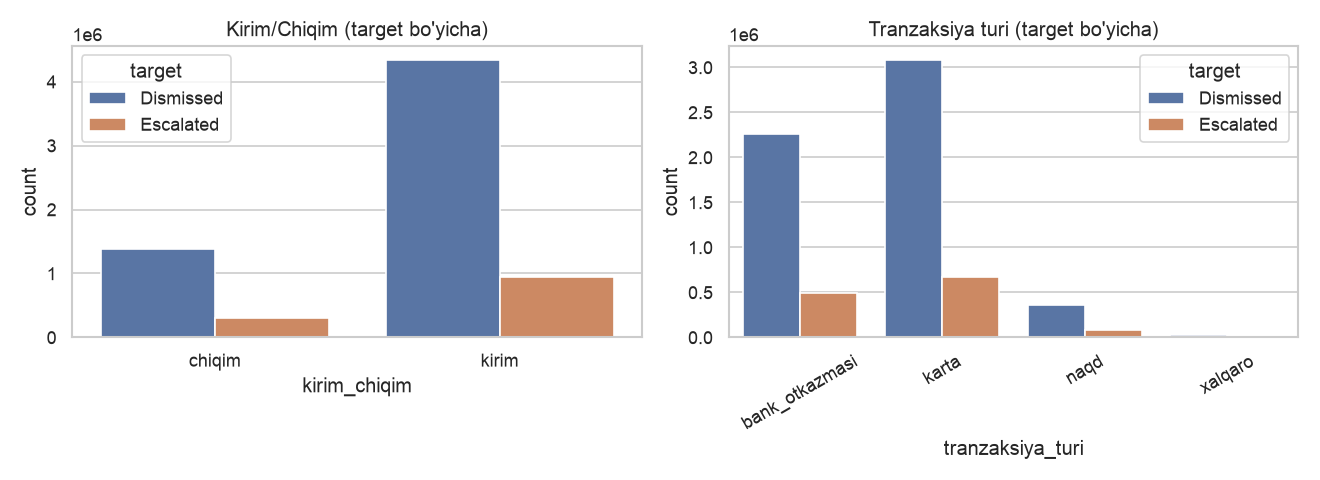
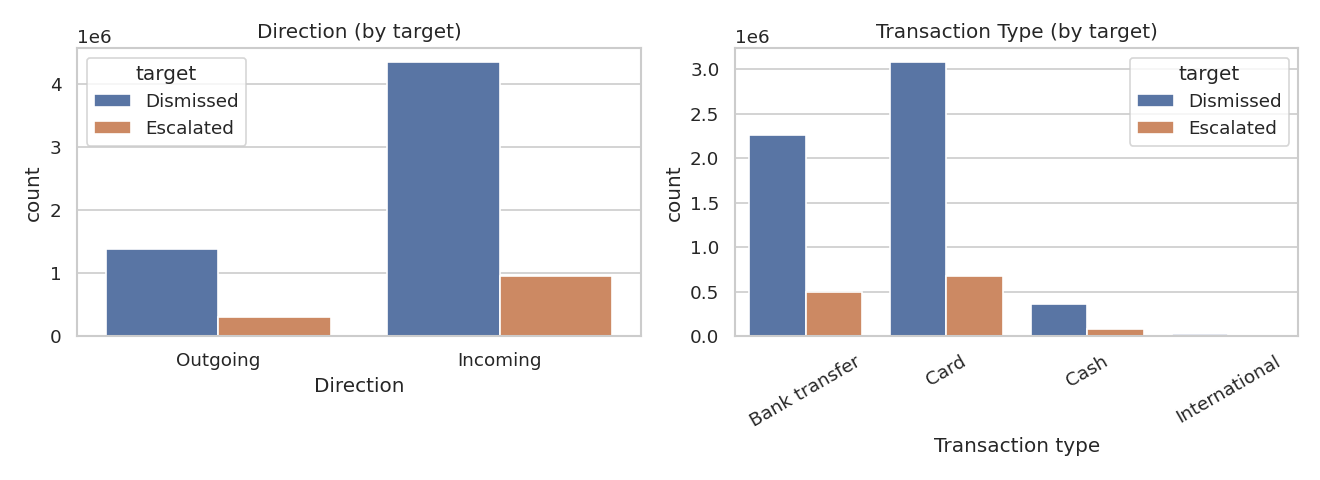
Translate EDA website to English

diff --git a/app.py b/app.py
@@ -3,12 +3,12 @@ app.py
 ------
 Team Galaxy — WIUT Hackathon 2026, AML Alert Prioritization — EDA website.
 
-Bu ilova faqat `eda_assets/` papkasidagi OLDINDAN HISOBLANGAN grafik va
-statistikalarni ko'rsatadi (xom train/test CSV yoki parquet fayllarni
-o'qimaydi va ularga bog'liq emas) — shuning uchun uni GitHub'ga xavfsiz
-push qilish va Streamlit Community Cloud'ga deploy qilish mumkin.
+This app only displays PRE-COMPUTED assets from `eda_assets/` (charts and
+summary statistics) — it does not read the raw train/test CSV or parquet
+files and has no dependency on them. This makes it safe to push to a
+public GitHub repo and deploy on Streamlit Community Cloud.
 
-Local sinash:
+Local run:
     streamlit run app.py
 """
 
@@ -21,17 +21,17 @@ ASSETS_DIR = Path(__file__).parent / "eda_assets"
 
 st.set_page_config(page_title="Team Galaxy — AML Alert Prioritization EDA", layout="wide")
 
-# ---------------------------------------------------------------- Sarlavha
+# ---------------------------------------------------------------- Header
 st.title("🔍 AML Alert Prioritization — Exploratory Data Analysis")
 st.caption("Team Galaxy · 9C953F22 · WIUT Hackathon 2026 · FinTech / AI in Finance track")
 
 st.markdown(
     """
-**Yondashuvimiz qisqacha:** biz relational (bir alertga ko'plab tranzaksiya
-to'g'ri keladigan) ma'lumotlar bazasini signal_id darajasidagi feature
-jadvaliga aylantirdik, so'ngra LightGBM, CatBoost va XGBoost modellarini
-5-fold cross-validation bilan o'qitib, ularning bashoratlarini blend
-qildik. Quyida ushbu qarorlarga olib kelgan EDA jarayonimiz keltirilgan.
+**Our approach in brief:** we transformed the relational dataset (one alert
+linked to many historical transactions) into a signal-level feature table,
+then trained LightGBM, CatBoost and XGBoost models with 5-fold
+cross-validation and blended their predictions. Below is the EDA process
+that shaped these modeling decisions.
 """
 )
 
@@ -42,33 +42,33 @@ if summary_path.exists():
     with open(summary_path, encoding="utf-8") as f:
         summary = json.load(f)
 
-st.header("📊 Dataset tuzilishi")
+st.header("📊 Dataset Structure")
 col1, col2, col3, col4 = st.columns(4)
-col1.metric("Jami signal (train)", f"{summary.get('n_signals', '—'):,}")
-col2.metric("Jami tranzaksiya (train)", f"{summary.get('n_transactions', '—'):,}")
+col1.metric("Total signals (train)", f"{summary.get('n_signals', '—'):,}")
+col2.metric("Total transactions (train)", f"{summary.get('n_transactions', '—'):,}")
 col3.metric("Escalation rate", f"{summary.get('escalation_rate', 0):.1%}")
-col4.metric("O'rtacha tx/signal", f"{summary.get('avg_tx_per_signal', 0):.0f}")
+col4.metric("Avg. transactions/signal", f"{summary.get('avg_tx_per_signal', 0):.0f}")
 
 st.markdown(
     f"""
-**Ma'lumotlar sxemasi:**
-- `signals`: `signal_id`, `signal_sanasi`, `eskalatsiya` (target: 0=dismissed, 1=escalated)
-- `transactions` *(relational — bir signalga ko'plab qator)*: `signal_id`,
-  `tranzaksiya_vaqti`, `kirim_chiqim` (kirim/chiqim), `tranzaksiya_turi`
-  (karta/bank_otkazmasi/naqd/xalqaro), `miqdor_indeksi` (standartlashtirilgan)
+**Data schema** *(original column names shown in parentheses)*:
+- `signals`: `signal_id`, signal date (`signal_sanasi`), target (`eskalatsiya`: 0 = dismissed, 1 = escalated)
+- `transactions` *(relational — many rows per signal)*: `signal_id`,
+  transaction timestamp (`tranzaksiya_vaqti`), direction (`kirim_chiqim`: incoming/outgoing),
+  transaction type (`tranzaksiya_turi`: card / bank transfer / cash / international),
+  standardized amount (`miqdor_indeksi`)
 
-Sana oralig'i: **{summary.get('date_min', '—')} — {summary.get('date_max', '—')}**
+Date range: **{summary.get('date_min', '—')} — {summary.get('date_max', '—')}**
 
-*Eslatma: barqarorlik va maxfiylik (NDA) sababli, bu sahifada xom
-tranzaksiya ma'lumotlari emas, faqat jamlangan (agregatlangan)
-statistikalar va grafiklar ko'rsatiladi.*
+*Note: for data-privacy and NDA reasons, this page shows only aggregated
+statistics and charts — never raw transaction records.*
 """
 )
 
 st.divider()
 
 # ---------------------------------------------------------------- Target
-st.header("🎯 Target taqsimoti")
+st.header("🎯 Target Distribution")
 c1, c2 = st.columns([1, 1])
 with c1:
     img = ASSETS_DIR / "target_distribution.png"
@@ -77,44 +77,44 @@ with c1:
 with c2:
     st.markdown(
         f"""
-**Kuzatuv:** target sezilarli darajada **imbalanced** —
-escalation rate atigi **{summary.get('escalation_rate', 0):.1%}**.
+**Observation:** the target is notably **imbalanced** — the escalation
+rate is only **{summary.get('escalation_rate', 0):.1%}**.
 
-Bu bizning modellashtirish qarorlarimizga bevosita ta'sir qildi:
-- `scale_pos_weight` orqali class imbalance'ni kompensatsiya qildik
-- ROC-AUC metrikasini tanladik (imbalanced datada accuracy chalg'ituvchi
-  bo'lishi mumkin)
-- StratifiedKFold ishlatdik — har fold'da target nisbati saqlanishi uchun
+This directly shaped our modeling decisions:
+- We used `scale_pos_weight` to compensate for the class imbalance
+- We chose ROC-AUC as the evaluation metric (accuracy would be misleading
+  on imbalanced data)
+- We used StratifiedKFold so each fold preserves the target ratio
 """
     )
 
 st.divider()
 
 # ---------------------------------------------------------- Direction/Type
-st.header("💳 Kirim/Chiqim va Tranzaksiya turi")
+st.header("💳 Direction and Transaction Type")
 img = ASSETS_DIR / "direction_type_distribution.png"
 if img.exists():
     st.image(str(img), use_container_width=True)
 
 st.markdown(
     """
-**Kuzatuv:** kirim_chiqim va tranzaksiya_turi bo'yicha **marginal
-(oddiy) taqsimotlar escalated va dismissed guruhlar orasida deyarli
-farqlanmaydi** (masalan naqd tranzaksiya ulushi ikkala guruhda ham
-~6-6.5% atrofida). Bu — muhim va nozik topilma: signal oddiy, bitta
-o'lchovli statistikalarda YASHIRINMAGAN.
+**Observation:** the marginal (one-dimensional) distributions of direction
+and transaction type are **almost identical between escalated and
+dismissed alerts** (e.g. the cash-transaction share is around 6–6.5% for
+both groups). This is an important, subtle finding: the signal is not
+hidden in simple, single-variable statistics.
 
-**Bu bizga nima dedi:** modelimiz ko'p-feature interaction va vaqtga
-bog'liq pattern'larni ushlashi kerak — shuning uchun biz vaqt oynalari
-(1/3/7/14/30/90 kun), tranzaksiyalar orasidagi vaqt farqi (burst
-detection) va kategoriyalar aro kombinatsiya feature'larini qo'shdik.
+**What this told us:** our model needs to capture multi-feature
+interactions and time-dependent patterns — which is why we added time
+windows (1/3/7/14/30/90 days), inter-transaction time gaps (burst
+detection), and cross-category combination features.
 """
 )
 
 st.divider()
 
 # --------------------------------------------------------------- Amounts
-st.header("💰 Tranzaksiya miqdori taqsimoti")
+st.header("💰 Transaction Amount Distribution")
 c1, c2 = st.columns([1, 1])
 with c1:
     img = ASSETS_DIR / "amount_distribution.png"
@@ -123,22 +123,23 @@ with c1:
 with c2:
     st.markdown(
         """
-**Kuzatuv:** `miqdor_indeksi` (standartlashtirilgan tranzaksiya hajmi)
-taqsimoti escalated va dismissed guruhlar orasida **juda yaqin**, ozgina
-farq bilan. Bu shuni ko'rsatadiki, oddiy "yirik summalar xavfli" degan
-faraz to'liq to'g'ri emas — xavf ko'proq **xatti-harakat pattern'ida**
-(chastota, vaqt, kombinatsiya), summaning o'zida emas.
+**Observation:** the distribution of `amount_index` (standardized
+transaction size) is **very close** between escalated and dismissed
+groups, with only a small difference. This shows that the simple
+"large amounts are riskier" assumption doesn't fully hold — risk is
+driven more by **behavioral patterns** (frequency, timing, combinations)
+than by the amount itself.
 
-Shu sababdan biz "round-number" (davra summalar — structuring belgisi)
-va "recent trend" (oxirgi tranzaksiyalarning umumiy o'rtachadan chetga
-chiqishi) feature'larini qo'shdik.
+This is why we added "round-number" (structuring indicator) and "recent
+trend" (how recent transactions deviate from the overall average)
+features.
 """
     )
 
 st.divider()
 
 # --------------------------------------------------------------- Windows
-st.header("⏱ Signal oldidan faollik (vaqt oynalari)")
+st.header("⏱ Pre-signal Activity (Time Windows)")
 c1, c2 = st.columns([1, 1])
 with c1:
     img = ASSETS_DIR / "window_activity.png"
@@ -147,15 +148,16 @@ with c1:
 with c2:
     st.markdown(
         """
-**Kuzatuv:** signal sanasidan oldingi turli vaqt oynalarida (1/3/7/14/30
-kun) hisoblangan tranzaksiya faolligi, **escalated guruhda barcha
-oynalarda biroz yuqoriroq**. Masalan 30 kunlik oynada dismissed guruh
-o'rtacha ~78 ta, escalated guruh esa ~81 ta tranzaksiyaga ega.
+**Observation:** transaction activity computed over several time windows
+before the signal date (1/3/7/14/30 days) is **consistently higher for
+escalated alerts** across every window. For example, in the 30-day
+window, dismissed alerts average ~78 transactions versus ~81 for
+escalated alerts.
 
-Bu — biz topgan **eng izchil (consistent) signal**: farq kichik, lekin
-barcha oynalarda bir tomonlama (escalated > dismissed). Shuning uchun
-vaqt-oynali agregatlar bizning modelimizdagi eng muhim feature guruhlaridan
-biriga aylandi.
+This is the **most consistent signal** we found: the gap is small, but
+it points the same direction (escalated > dismissed) across every
+window. This made time-windowed aggregates one of the most important
+feature groups in our model.
 """
     )
 
@@ -164,41 +166,40 @@ st.divider()
 # --------------------------------------------------------- Feature import.
 img = ASSETS_DIR / "feature_importance.png"
 if img.exists():
-    st.header("🧠 Model qaysi feature'larga eng ko'p tayanadi")
+    st.header("🧠 Which Features the Model Relies on Most")
     st.image(str(img), use_container_width=True)
     st.markdown(
         """
-LightGBM modelimizning feature importance tahlili shuni ko'rsatdiki, eng
-yuqori o'rinlarda nafaqat oddiy statistikalar (`tx_min`, `tx_max`), balki
-EDA orqali maqsadli qo'shilgan feature'lar ham bor — masalan
-`avg_dist_to_round` (round-number pattern) va `recent_5_trend` (so'nggi
-tranzaksiyalar trendi). Bu bizning EDA-asoslangan feature engineering
-yondashuvimizni tasdiqlaydi.
+The feature importance analysis of our LightGBM model shows that the
+top-ranked features include not only basic statistics (`tx_min`,
+`tx_max`) but also features motivated directly by our EDA — such as
+`avg_dist_to_round` (round-number pattern) and `recent_5_trend` (recent
+transaction trend). This confirms that our EDA-driven feature
+engineering approach paid off.
 """
     )
     st.divider()
 
-# --------------------------------------------------------------- Xulosa
-st.header("📝 Xulosa — eng muhim topilmalar")
+# --------------------------------------------------------------- Summary
+st.header("📝 Conclusion — Key Findings")
 st.markdown(
     f"""
-1. **Target sezilarli imbalanced** ({summary.get('escalation_rate', 0):.1%}
-   escalation rate) — modellashtirish va metrika tanlovimizga bevosita
-   ta'sir qildi.
-2. **Oddiy, bir o'lchovli statistikalar (marginal distributions) bo'yicha
-   escalated va dismissed guruhlar deyarli farqlanmaydi** — bu signal
-   murakkab, ko'p-feature va vaqtga bog'liq ekanligini ko'rsatdi.
-3. **Signal oldidan faollik (barcha vaqt oynalarida) eng izchil signal** —
-   escalated guruhda tizimli ravishda yuqoriroq.
-4. Ushbu topilmalar asosida biz **76 ta feature** (asosiy statistikalar,
-   kirim/chiqim va tur kombinatsiyalari, vaqt oynalari, burst detection,
-   round-number pattern, recent trend) yaratdik va **LightGBM + CatBoost +
-   XGBoost ensemble** modelini qo'lladik.
+1. **The target is notably imbalanced** ({summary.get('escalation_rate', 0):.1%}
+   escalation rate) — this directly shaped our modeling and metric choices.
+2. **Simple, one-dimensional statistics (marginal distributions) barely
+   differ between escalated and dismissed groups** — showing the signal
+   is complex, multi-feature, and time-dependent.
+3. **Pre-signal activity (across all time windows) is our most consistent
+   signal** — systematically higher for escalated alerts.
+4. Based on these findings, we engineered **76 features** (base
+   statistics, direction/type combinations, time windows, burst
+   detection, round-number pattern, recent trend) and applied a
+   **LightGBM + CatBoost + XGBoost ensemble**.
 
-Loyihaning to'liq, qayta ishga tushirilishi mumkin bo'lgan kodi
-(`features.py`, `train.py`, `predict.py`) va Jupyter notebook GitHub
-repozitoriyamizda mavjud.
+The full, reproducible pipeline code (`features.py`, `train.py`,
+`predict.py`) and Jupyter notebook are available in our GitHub
+repository.
 """
 )
 
-st.caption("Team Galaxy · WIUT Hackathon 2026 · Faqat agregatlangan statistikalar ko'rsatilgan, xom ma'lumot emas (NDA).")
+st.caption("Team Galaxy · WIUT Hackathon 2026 · Only aggregated statistics are shown, no raw data (NDA).")

diff --git a/generate_eda_assets.py b/generate_eda_assets.py
@@ -53,42 +53,49 @@ def main():
     summary["date_max"] = str(signals["signal_sanasi"].max().date())
     summary["avg_tx_per_signal"] = float(tx.groupby("signal_id").size().mean())
 
-    # --- 2) Target taqsimoti grafigi ---
+    # --- 2) Target distribution chart ---
     fig, ax = plt.subplots(figsize=(5, 4))
     signals["eskalatsiya"].map({0: "Dismissed", 1: "Escalated"}).value_counts().plot(
         kind="bar", ax=ax, color=["#4C72B0", "#DD8452"]
     )
-    ax.set_title("Target taqsimoti")
-    ax.set_ylabel("Signal soni")
+    ax.set_title("Target Distribution")
+    ax.set_ylabel("Number of signals")
+    ax.set_xlabel("")
     plt.tight_layout()
     fig.savefig(args.out_dir / "target_distribution.png", dpi=120)
     plt.close(fig)
 
-    # --- 3) Kirim/chiqim va tranzaksiya turi (target bo'yicha) ---
+    # --- 3) Direction and transaction type (by target) ---
     fig, axes = plt.subplots(1, 2, figsize=(11, 4))
     sns.countplot(
         data=merged.assign(target=merged["eskalatsiya"].map({0: "Dismissed", 1: "Escalated"})),
         x="kirim_chiqim", hue="target", ax=axes[0],
     )
-    axes[0].set_title("Kirim/Chiqim (target bo'yicha)")
+    axes[0].set_title("Direction (by target)")
+    axes[0].set_xlabel("Direction")
+    axes[0].set_xticklabels(["Outgoing", "Incoming"])
 
     sns.countplot(
         data=merged.assign(target=merged["eskalatsiya"].map({0: "Dismissed", 1: "Escalated"})),
         x="tranzaksiya_turi", hue="target", ax=axes[1],
     )
-    axes[1].set_title("Tranzaksiya turi (target bo'yicha)")
+    axes[1].set_title("Transaction Type (by target)")
+    axes[1].set_xlabel("Transaction type")
+    axes[1].set_xticklabels(["Bank transfer", "Card", "Cash", "International"])
     axes[1].tick_params(axis="x", rotation=30)
     plt.tight_layout()
     fig.savefig(args.out_dir / "direction_type_distribution.png", dpi=120)
     plt.close(fig)
 
-    # --- 4) miqdor_indeksi taqsimoti ---
+    # --- 4) Transaction amount distribution ---
     fig, ax = plt.subplots(figsize=(6, 4))
     sns.boxplot(
         data=merged.assign(target=merged["eskalatsiya"].map({0: "Dismissed", 1: "Escalated"})),
         x="target", y="miqdor_indeksi", ax=ax,
     )
-    ax.set_title("Tranzaksiya miqdori: Escalated vs Dismissed")
+    ax.set_title("Transaction Amount: Escalated vs Dismissed")
+    ax.set_xlabel("")
+    ax.set_ylabel("Standardized amount")
     plt.tight_layout()
     fig.savefig(args.out_dir / "amount_distribution.png", dpi=120)
     plt.close(fig)
@@ -110,9 +117,9 @@ def main():
     df_win = pd.DataFrame(window_stats)
     ax.plot(df_win["window"], df_win["dismissed"], marker="o", label="Dismissed")
     ax.plot(df_win["window"], df_win["escalated"], marker="o", label="Escalated")
-    ax.set_xlabel("Signal oldidan necha kun")
-    ax.set_ylabel("O'rtacha tranzaksiya soni")
-    ax.set_title("Signal oldidan faollik: Escalated vs Dismissed")
+    ax.set_xlabel("Days before signal")
+    ax.set_ylabel("Average transaction count")
+    ax.set_title("Pre-signal Activity: Escalated vs Dismissed")
     ax.legend()
     plt.tight_layout()
     fig.savefig(args.out_dir / "window_activity.png", dpi=120)
@@ -136,12 +143,12 @@ def main():
                 [feature_cols[i] for i in order][::-1],
                 [importances[i] for i in order][::-1],
             )
-            ax.set_title("Top-15 eng muhim feature'lar (LightGBM)")
+            ax.set_title("Top-15 Most Important Features (LightGBM)")
             plt.tight_layout()
             fig.savefig(args.out_dir / "feature_importance.png", dpi=120)
             plt.close(fig)
     except Exception as e:
-        print(f"Feature importance grafigi o'tkazib yuborildi: {e}")
+        print(f"Feature importance chart skipped: {e}")
 
     with open(args.out_dir / "summary.json", "w", encoding="utf-8") as f:
         json.dump(summary, f, ensure_ascii=False, indent=2)
